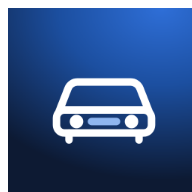
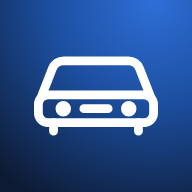
İkonlar Yuva ölçüsünde: daha büyük araba, aynı renkler
Claude-Session: https://claude.ai/code/session_01QKKKHi3N21YHt5k4W4CZfZ

diff --git a/index.html b/index.html
@@ -11,9 +11,9 @@
 <meta name="apple-mobile-web-app-capable" content="yes">
 <meta name="apple-mobile-web-app-title" content="Garajım">
 <meta name="apple-mobile-web-app-status-bar-style" content="default">
[6 lines of base64/hex data omitted]
 <script src="local.js"></script>
 <link rel="preconnect" href="https://fonts.googleapis.com">
 <link rel="stylesheet" href="https://fonts.googleapis.com/css2?family=Albert+Sans:wght@300;400;600;700&display=swap">

diff --git a/sw.js b/sw.js
@@ -1,5 +1,5 @@
 /* Garajım service worker: uygulamayı çevrimdışı açar. Kayıtların IndexedDB'de, burada değil. */
-var V='garajim-v3',SHELL=['pdf.min.js','pdf.worker.min.js','./','index.html','local.js','manifest.webmanifest','icon-192.png','icon-512.png','icon-maskable.png','favicon.ico'];
+var V='garajim-v4',SHELL=['pdf.min.js','pdf.worker.min.js','./','index.html','local.js','manifest.webmanifest','icon-192.png','icon-512.png','icon-maskable.png','favicon.ico'];
 self.addEventListener('install',function(e){e.waitUntil(caches.open(V).then(function(c){return c.addAll(SHELL)}).then(function(){return self.skipWaiting()}))});
 self.addEventListener('activate',function(e){e.waitUntil(caches.keys().then(function(ks){return Promise.all(ks.filter(function(k){return k!==V&&k.indexOf('garajim-')===0}).map(function(k){return caches.delete(k)}))}).then(function(){return self.clients.claim()}))});
 self.addEventListener('fetch',function(e){var r=e.request;if(r.method!=='GET')return;var u=new URL(r.url);
